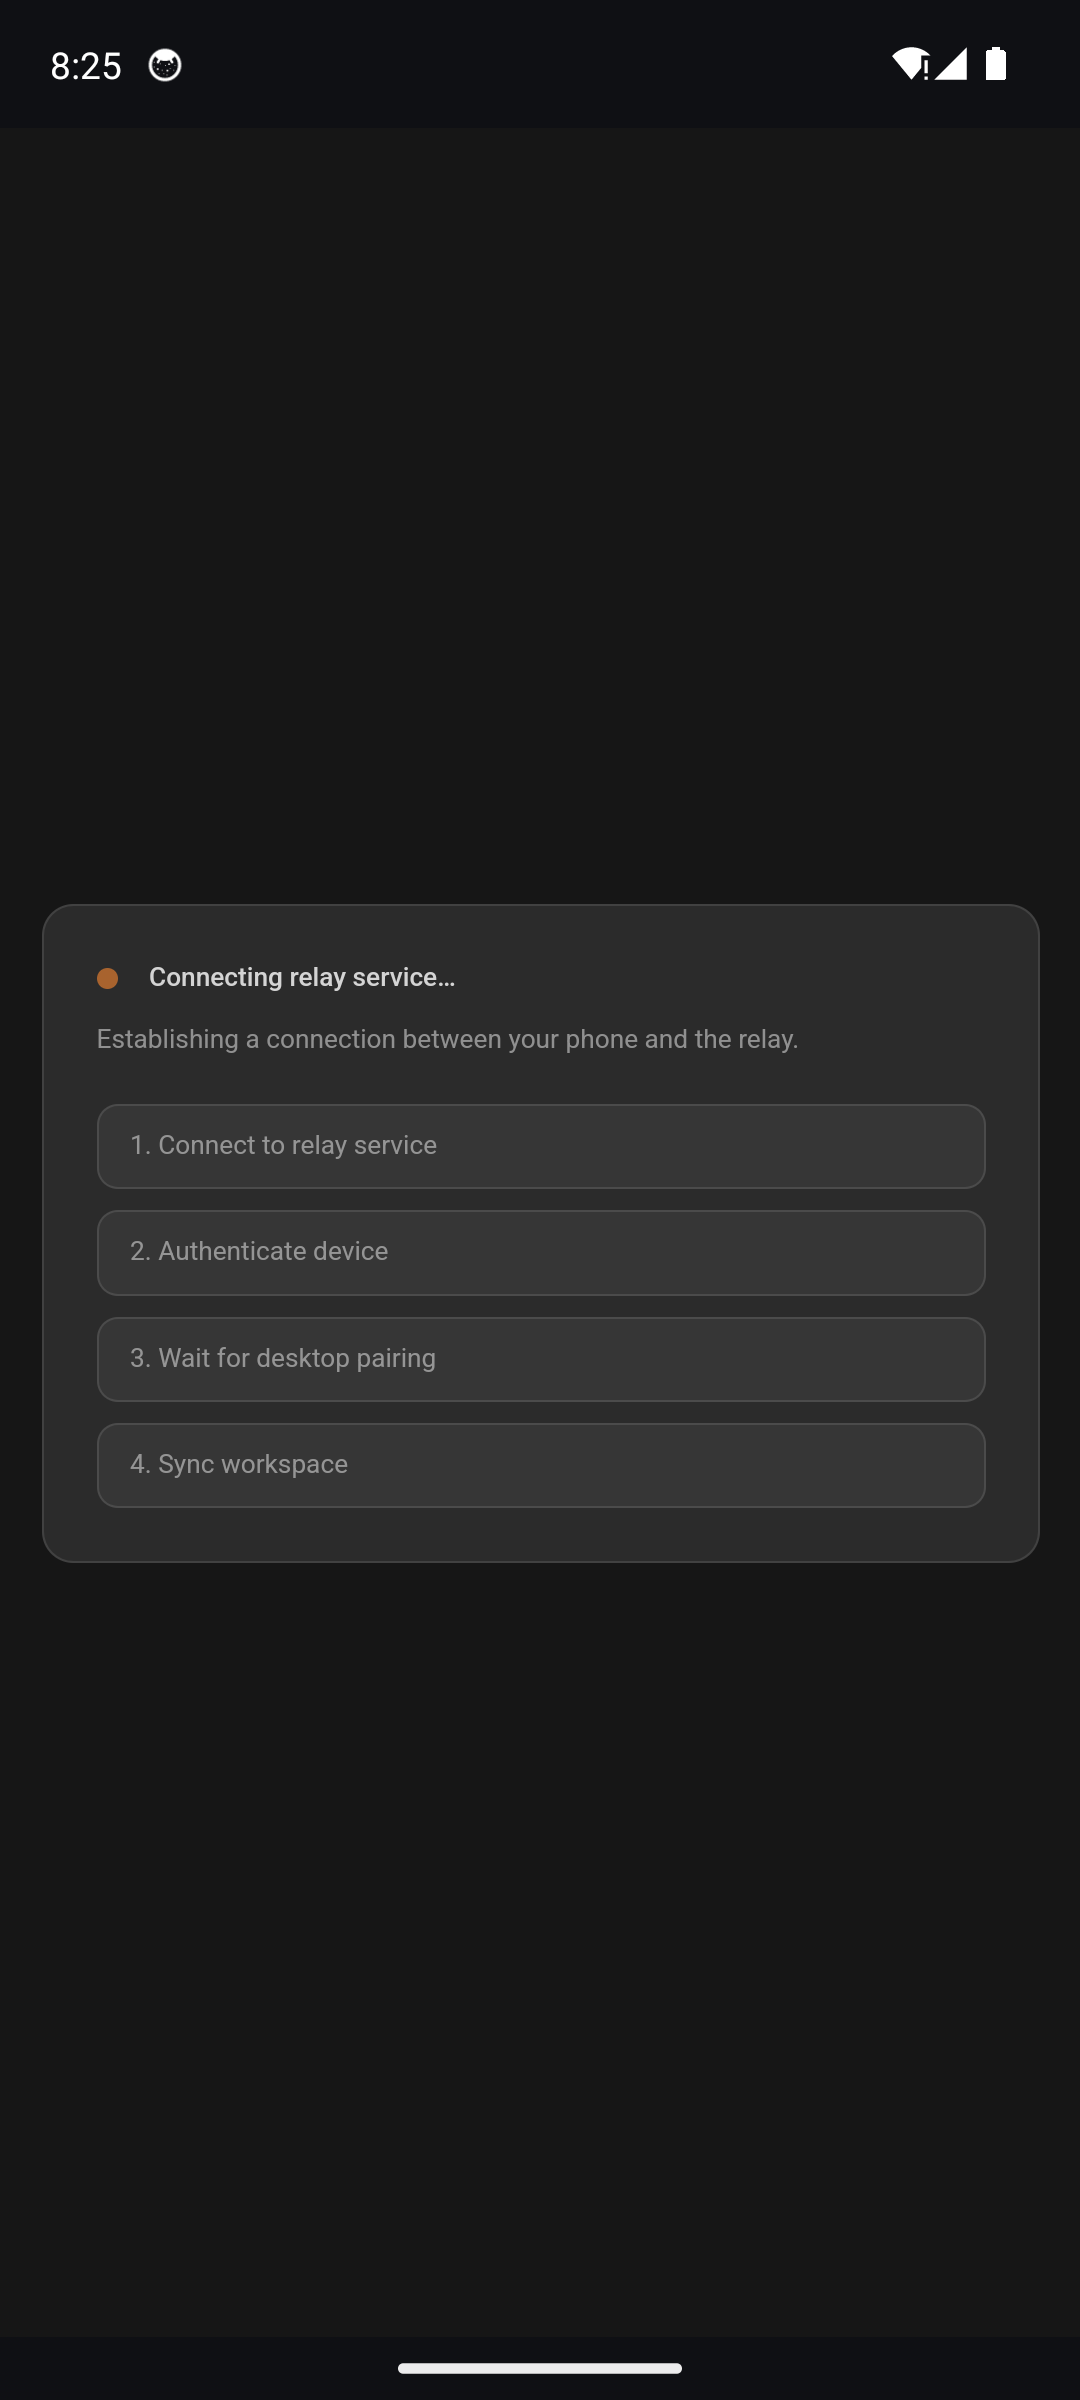
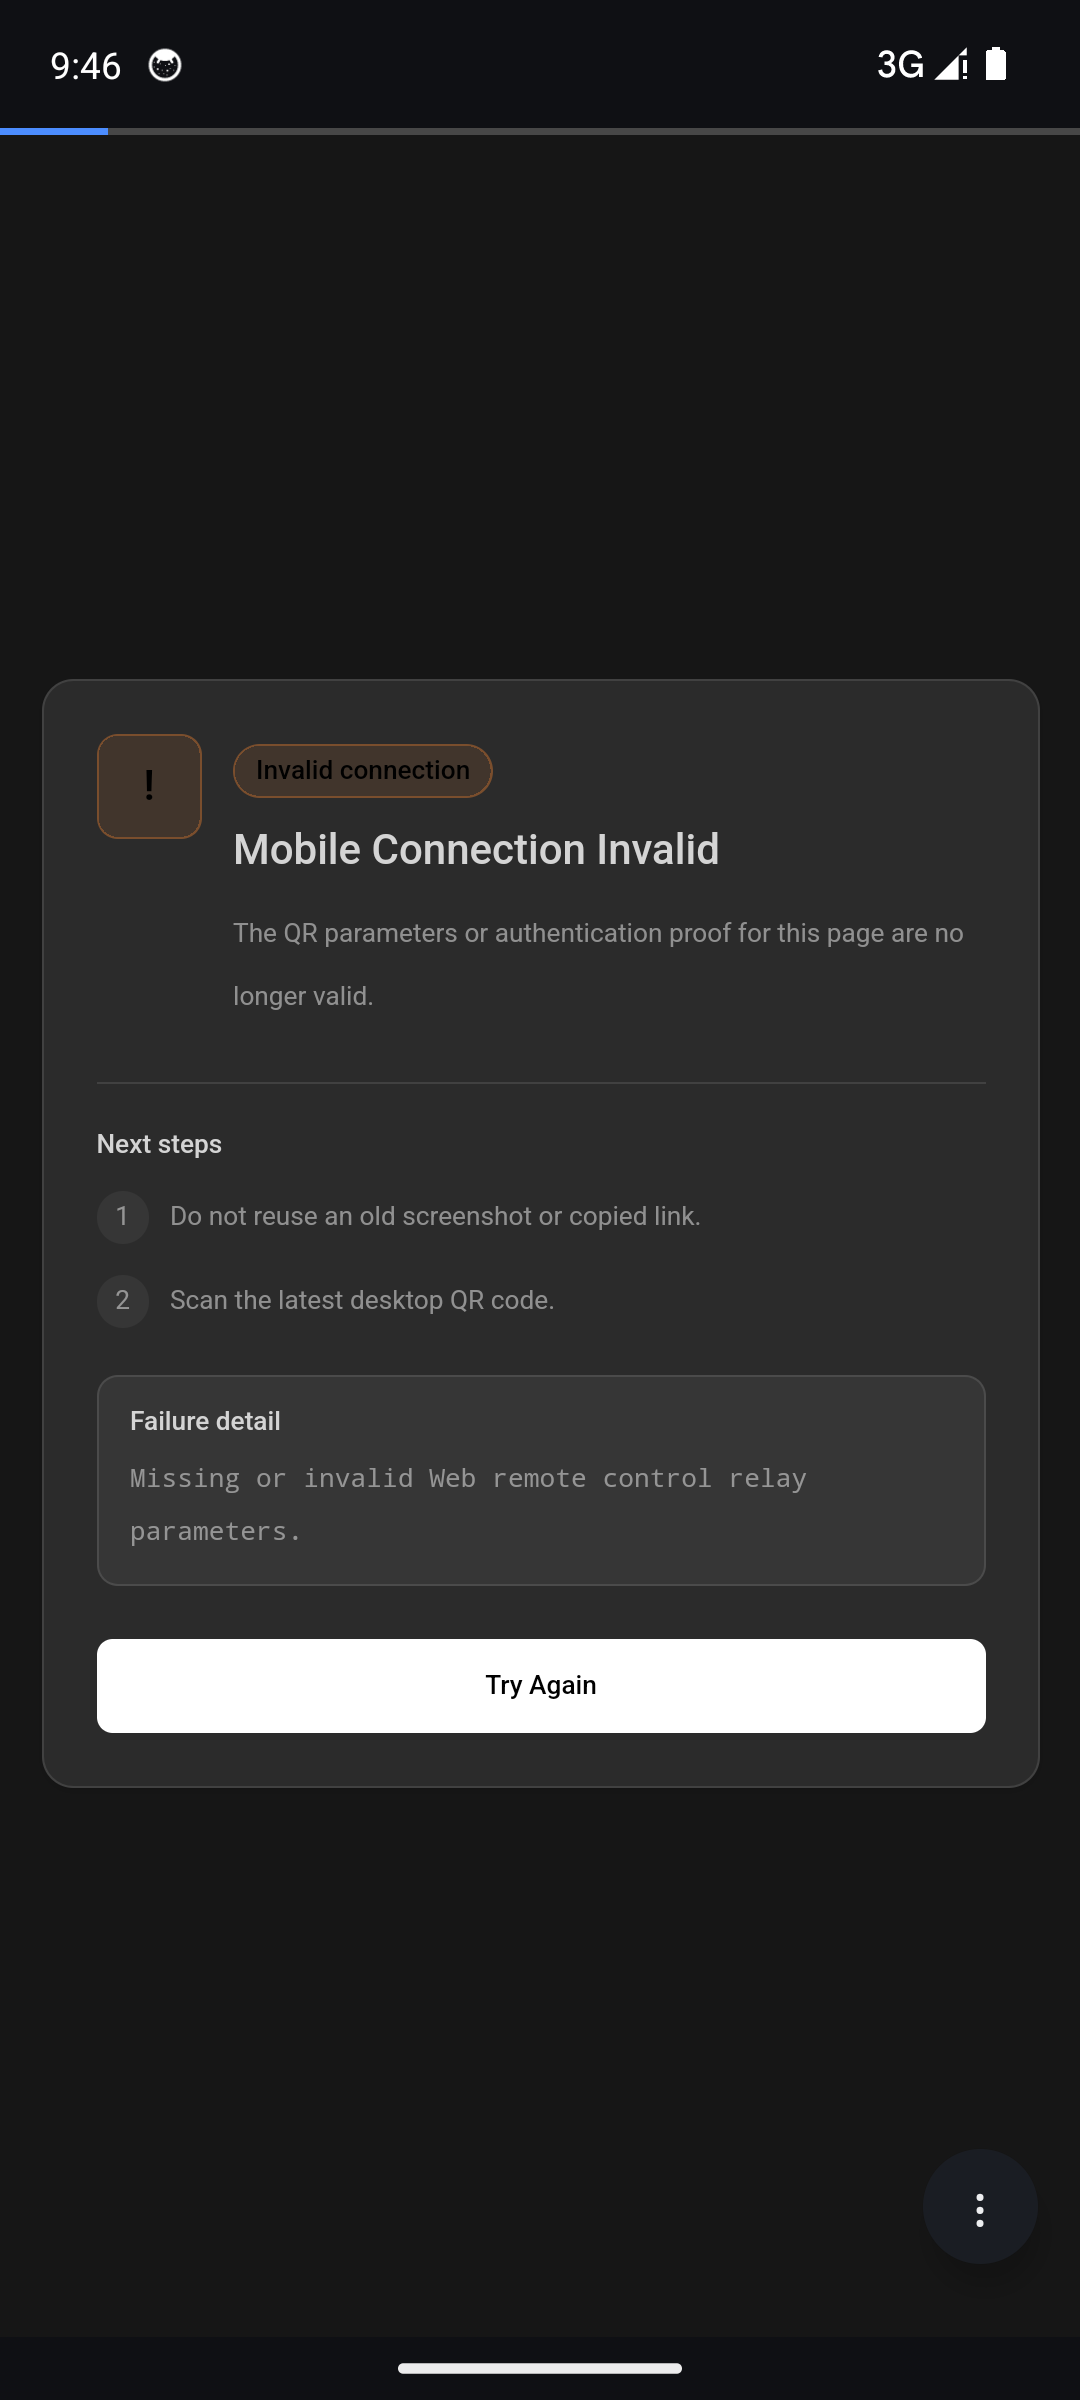
v1.4: 会话页新增应用菜单(悬浮钮:会话信息、刷新/换链接/复制链接/检查更新)

diff --git a/app/src/main/java/com/zcode/remote/MainActivity.java b/app/src/main/java/com/zcode/remote/MainActivity.java
@@ -11,6 +11,7 @@ import android.content.Intent;
 import android.content.IntentFilter;
 import android.content.SharedPreferences;
 import android.content.res.ColorStateList;
+import android.graphics.drawable.GradientDrawable;
 import android.net.Uri;
 import android.os.Build;
 import android.os.Bundle;
@@ -52,7 +53,7 @@ public class MainActivity extends Activity {
     private static final String ACTION_CHANGE_URL = "com.zcode.remote.CHANGE_URL";
     private static final Pattern REMOTE_URL = Pattern.compile("https://zcode\\.z\\.ai/remote\\S*");
     // 版本自动更新:GitHub Releases 元数据,tag 命名 v1.3,asset 为任意 .apk
-    private static final String APP_VERSION = "1.3";
+    private static final String APP_VERSION = "1.4";
     private static final String RELEASE_API = "https://api.github.com/repos/LShang001/zcode-remote/releases/latest";
     private static final Pattern TAG_JSON = Pattern.compile("\"tag_name\"\\s*:\\s*\"v?([0-9][0-9.]*)\"");
     private static final Pattern APK_URL_JSON = Pattern.compile("\"browser_download_url\"\\s*:\\s*\"([^\"]+\\.apk)\"");
@@ -296,11 +297,65 @@ public class MainActivity extends Activity {
                 ViewGroup.LayoutParams.MATCH_PARENT, ViewGroup.LayoutParams.MATCH_PARENT));
         container.addView(progress, new FrameLayout.LayoutParams(
                 ViewGroup.LayoutParams.MATCH_PARENT, dp(3), Gravity.TOP));
+        FrameLayout.LayoutParams fabLp = new FrameLayout.LayoutParams(
+                dp(44), dp(44), Gravity.BOTTOM | Gravity.END);
+        fabLp.rightMargin = dp(16);
+        fabLp.bottomMargin = dp(28);
+        container.addView(menuFab(), fabLp);
 
         root.removeAllViews();
         root.addView(container, new FrameLayout.LayoutParams(
                 ViewGroup.LayoutParams.MATCH_PARENT, ViewGroup.LayoutParams.MATCH_PARENT));
         webView.loadUrl(url);
+    }
+
+    private TextView menuFab() {
+        TextView fab = new TextView(this);
+        fab.setText("⋮");
+        fab.setTextSize(TypedValue.COMPLEX_UNIT_SP, 20);
+        fab.setTextColor(FG);
+        fab.setGravity(Gravity.CENTER);
+        GradientDrawable bg = new GradientDrawable();
+        bg.setShape(GradientDrawable.OVAL);
+        bg.setColor(0xCC1B1F27);
+        fab.setBackground(bg);
+        fab.setElevation(dp(6));
+        fab.setOnClickListener(v -> showMenu());
+        return fab;
+    }
+
+    private void showMenu() {
+        final String url = getPreferences(Context.MODE_PRIVATE).getString(KEY_URL, "");
+        String shown = url.length() > 46 ? url.substring(0, 43) + "…" : url;
+        new AlertDialog.Builder(this)
+                .setTitle("ZCode Remote v" + APP_VERSION)
+                .setMessage("当前会话:\n" + shown
+                        + "\n\n链接失效了?在电脑上复制新链接,回到本 App 会自动切换。")
+                .setItems(new String[]{"刷新会话", "更换链接", "复制当前链接", "检查更新"}, (d, which) -> {
+                    switch (which) {
+                        case 0:
+                            if (webView != null) {
+                                webView.reload();
+                            }
+                            break;
+                        case 1:
+                            showSetup(url, null);
+                            break;
+                        case 2:
+                            try {
+                                ClipboardManager cm = (ClipboardManager) getSystemService(Context.CLIPBOARD_SERVICE);
+                                cm.setPrimaryClip(ClipData.newPlainText("url", url));
+                                Toast.makeText(this, "已复制当前链接", Toast.LENGTH_SHORT).show();
+                            } catch (Exception ignored) {
+                            }
+                            break;
+                        case 3:
+                            checkUpdate(true);
+                            break;
+                    }
+                })
+                .setNegativeButton("关闭", null)
+                .show();
     }
 
     private void showError(String message) {
